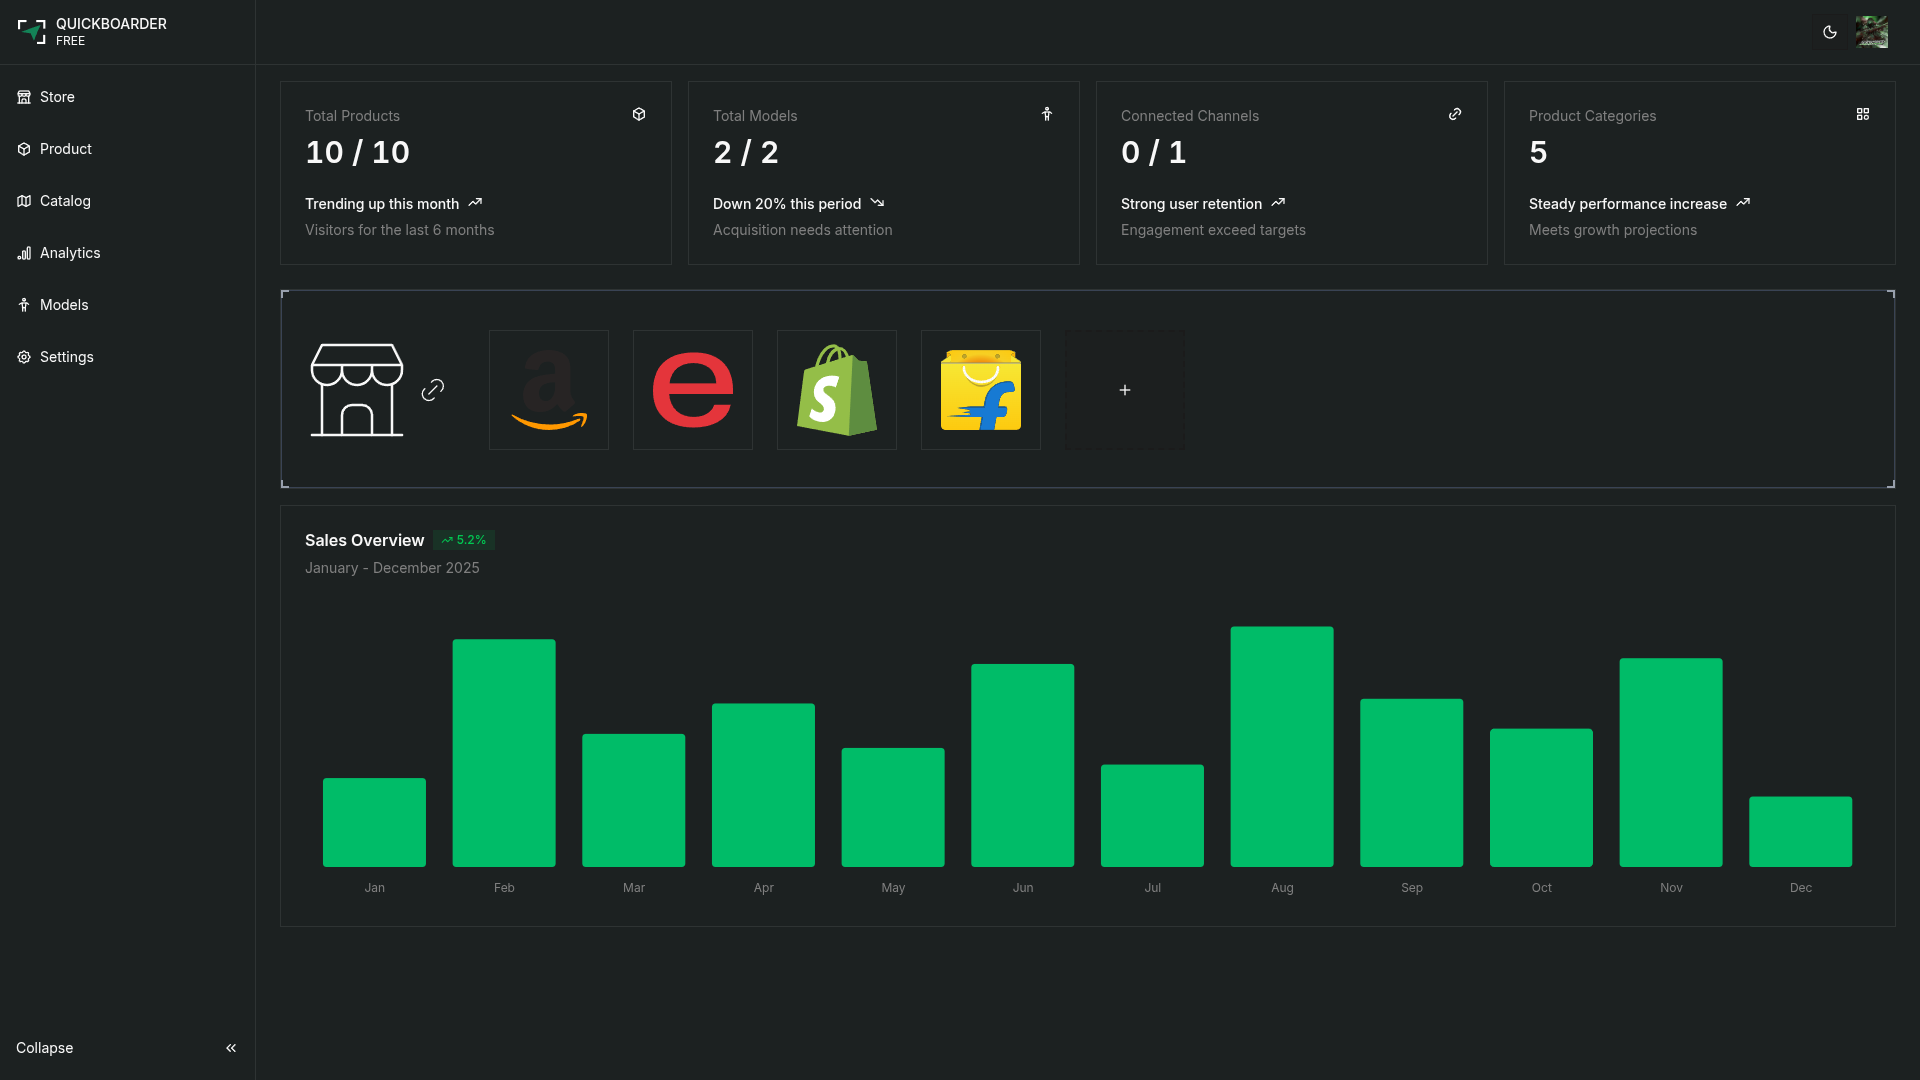
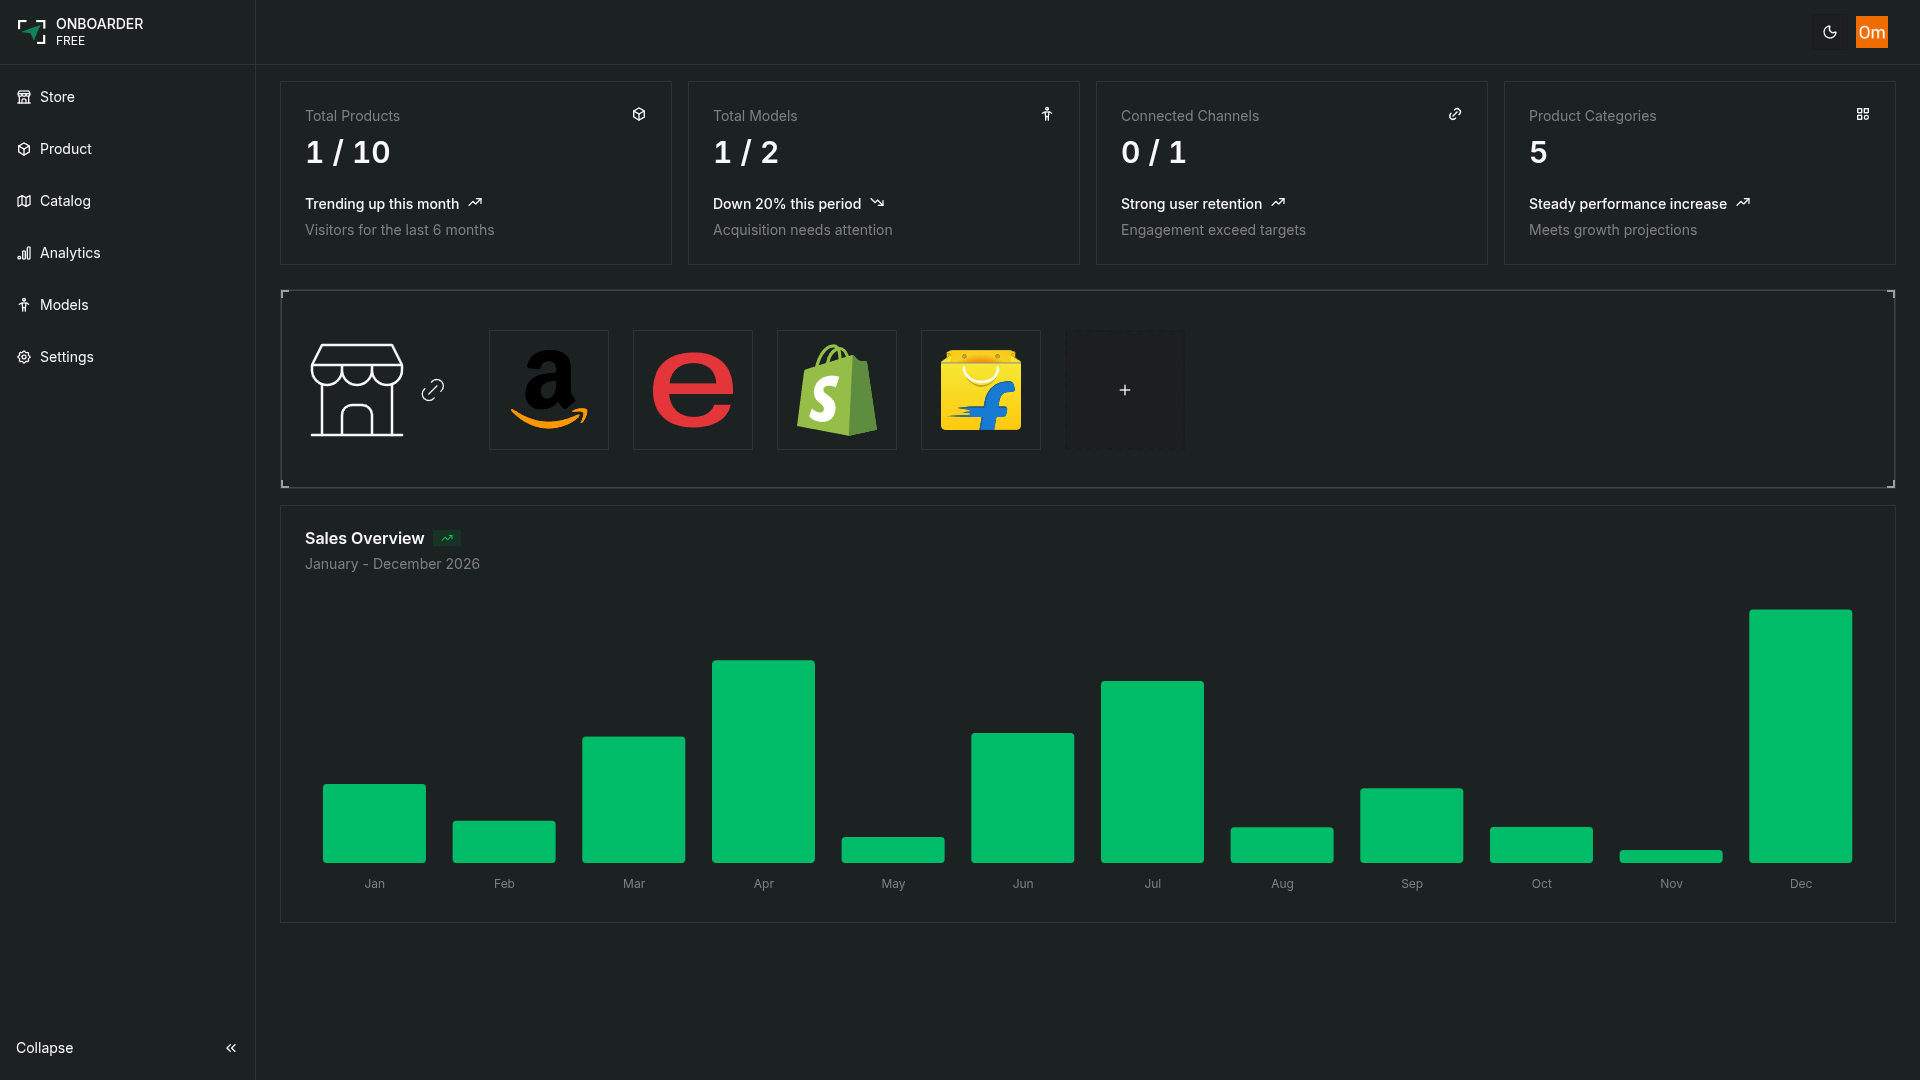
chore(brand): configure re-branding name

diff --git a/app/layout.tsx b/app/layout.tsx
@@ -23,11 +23,11 @@ const inter = Inter({
 
 export const metadata: Metadata = {
   title: {
-    default: "Quickboarder - Get your products e-commerce ready",
-    template: "%s | Quickboarder",
+    default: "Onboarder - Get your products e-commerce ready",
+    template: "%s | Onboarder",
   },
   description:
-    "Quickboarder is a tool that helps you get your products e-commerce ready in minutes. Generate product descriptions, titles, and more with the power of AI.",
+    "Onboarder is a tool that helps you get your products e-commerce ready in minutes. Generate product descriptions, titles, and more with the power of AI.",
   keywords: [
     "e-commerce",
     "shopify",
@@ -43,9 +43,9 @@ export const metadata: Metadata = {
     "ai tools",
     "models",
   ],
-  authors: [{ name: "quickboarder.shop" }],
-  creator: "quickboarder.shop",
-  publisher: "quickboarder.shop",
+  authors: [{ name: "Onboarder.shop" }],
+  creator: "Onboarder.shop",
+  publisher: "Onboarder.shop",
   robots: {
     index: true,
     follow: true,
@@ -62,24 +62,24 @@ export const metadata: Metadata = {
     shortcut: [{ url: "/favicon/favicon.ico" }],
   },
   openGraph: {
-    title: "Quickboarder - Get your products e-commerce ready",
+    title: "Onboarder - Get your products e-commerce ready",
     description:
-      "Quickboarder is a tool that helps you get your products e-commerce ready in minutes. Generate product descriptions, titles, and more with the power of AI.",
-    siteName: "Quickboarder",
+      "Onboarder is a tool that helps you get your products e-commerce ready in minutes. Generate product descriptions, titles, and more with the power of AI.",
+    siteName: "Onboarder",
     images: [
       {
         url: "/og-image.png",
         width: 1200,
         height: 630,
-        alt: "Quickboarder - Get your products e-commerce ready",
+        alt: "Onboarder - Get your products e-commerce ready",
       },
     ],
   },
   twitter: {
     card: "summary_large_image",
-    title: "Quickboarder - Get your products e-commerce ready",
+    title: "Onboarder - Get your products e-commerce ready",
     description:
-      "Quickboarder is a tool that helps you get your products e-commerce ready in minutes. Generate product descriptions, titles, and more with the power of AI.",
+      "Onboarder is a tool that helps you get your products e-commerce ready in minutes. Generate product descriptions, titles, and more with the power of AI.",
     images: ["/og-image.png"],
     creator: "@ommshx",
   },

diff --git a/components/blocks/faq.tsx b/components/blocks/faq.tsx
@@ -13,14 +13,14 @@ const categories = [
     title: "Support",
     questions: [
       {
-        question: "How do I connect my Amazon store to QuickBoarder?",
+        question: "How do I connect my Amazon store to Onboarder?",
         answer:
-          "Head to the ‘Integrations’ section in your QuickBoarder dashboard, choose your preferred platform, and follow the on-screen connection steps. You’ll be asked to authorize access to your store so we can publish and sync product listings automatically.",
+          "Head to the ‘Integrations’ section in your Onboarder dashboard, choose your preferred platform, and follow the on-screen connection steps. You’ll be asked to authorize access to your store so we can publish and sync product listings automatically.",
       },
       {
         question: "Can I edit the generated product details?",
         answer:
-          "Yes, absolutely. Every listing generated by QuickBoarder can be customized before export. You can fine-tune titles, descriptions, and images to better fit your brand tone and marketplace requirements.",
+          "Yes, absolutely. Every listing generated by Onboarder can be customized before export. You can fine-tune titles, descriptions, and images to better fit your brand tone and marketplace requirements.",
       },
     ],
   },
@@ -28,14 +28,14 @@ const categories = [
     title: "Your account",
     questions: [
       {
-        question: "How do I create or set up my QuickBoarder account?",
+        question: "How do I create or set up my Onboarder account?",
         answer:
           "You can sign up using your email address or Google account on our homepage. Once registered, you’ll gain access to your dashboard where you can start generating listings and connecting marketplaces instantly.",
       },
       {
-        question: "Is QuickBoarder free to use or does it have paid plans?",
+        question: "Is Onboarder free to use or does it have paid plans?",
         answer:
-          "QuickBoarder offers a free plan with limited AI credits to help you get started. For advanced features, higher credit limits, and priority export options, you can upgrade to a paid plan anytime from your account settings.",
+          "Onboarder offers a free plan with limited AI credits to help you get started. For advanced features, higher credit limits, and priority export options, you can upgrade to a paid plan anytime from your account settings.",
       },
       {
         question: "Can I delete my data or account permanently?",
@@ -48,19 +48,19 @@ const categories = [
     title: "Other questions",
     questions: [
       {
-        question: "What is QuickBoarder and how does it work?",
+        question: "What is Onboarder and how does it work?",
         answer:
-          "QuickBoarder is an AI-powered platform that helps you take your business online in minutes. Simply upload your product details or images, and our AI generates e-commerce–ready listings — complete with titles, descriptions, and visuals — that you can export to major marketplaces like Amazon, Flipkart, and Shopify.",
+          "Onboarder is an AI-powered platform that helps you take your business online in minutes. Simply upload your product details or images, and our AI generates e-commerce–ready listings — complete with titles, descriptions, and visuals — that you can export to major marketplaces like Amazon, Flipkart, and Shopify.",
       },
       {
-        question: "Can QuickBoarder create a complete product catalog?",
+        question: "Can Onboarder create a complete product catalog?",
         answer:
-          "Yes! With just basic product details or reference images, QuickBoarder can generate a full e-commerce catalog, including optimized titles, high-quality images, and keyword-rich descriptions — all ready for publishing.",
+          "Yes! With just basic product details or reference images, Onboarder can generate a full e-commerce catalog, including optimized titles, high-quality images, and keyword-rich descriptions — all ready for publishing.",
       },
       {
-        question: "Which platforms does QuickBoarder support for export?",
+        question: "Which platforms does Onboarder support for export?",
         answer:
-          "QuickBoarder currently supports exports to Amazon, Flipkart, Shopify, and WooCommerce. We’re continuously adding support for more marketplaces and will notify you when new integrations go live.",
+          "Onboarder currently supports exports to Amazon, Flipkart, Shopify, and WooCommerce. We’re continuously adding support for more marketplaces and will notify you when new integrations go live.",
       },
     ],
   },

diff --git a/components/blocks/footer.tsx b/components/blocks/footer.tsx
@@ -27,8 +27,8 @@ export function Footer() {
           Start your journey today
         </h2>
         <p className="text-muted-foreground mx-auto max-w-xl leading-snug text-balance">
-          Quickboarder is the perfect tool to take your business to the next
-          level within minutes
+          Onboarder is the perfect tool to take your business to the next level
+          within minutes
         </p>
         <div>
           <Button size="lg" className="mt-4" asChild>
@@ -107,7 +107,7 @@ export function Footer() {
             fontFamily="Poppins, sans-serif"
             letterSpacing="8"
           >
-            QUICKBOARDER
+            Onboarder
           </text>
         </svg>
       </div>

diff --git a/components/blocks/hero.tsx b/components/blocks/hero.tsx
@@ -38,7 +38,7 @@ export const Hero = () => {
       <div className="container flex flex-col justify-between gap-8 md:gap-14 lg:flex-row lg:gap-20">
         <div className="flex-1">
           <h1 className="text-foreground max-w-160 text-3xl tracking-tight md:text-4xl lg:text-5xl xl:whitespace-nowrap">
-            Quickboarder
+            Onboarder
           </h1>
           <p className="text-muted-foreground text-1xl mt-5 md:text-3xl">
             Get your products e-commerce ready in minutes with AI-powered
@@ -46,9 +46,7 @@ export const Hero = () => {
           </p>
           <div className="mt-8 flex flex-wrap items-center gap-4 lg:flex-nowrap">
             <Button asChild>
-              <a href="https://quickboarder.shop/dashboard">
-                Get Started
-              </a>
+              <a href="https://Onboarder.shop/dashboard">Get Started</a>
             </Button>
             <Button
               variant="outline"

diff --git a/app/(protected)/dashboard/catalog/page.tsx b/app/(protected)/dashboard/catalog/page.tsx
@@ -8,7 +8,6 @@ import {
   Edit,
   Plus,
   Search,
-  Trash,
   Loader2,
   ChevronLeft,
   ChevronRight,
@@ -22,7 +21,6 @@ import {
   CardTitle,
 } from "@/components/ui/card";
 import { Input } from "@/components/ui/input";
-import { Checkbox } from "@/components/ui/checkbox";
 import { toast } from "@/components/ui/use-toast";
 import { ProductDeleteButton } from "@/components/product/ProductDelete";
 
@@ -254,7 +252,7 @@ export default function CatalogPage() {
     const dataUri =
       "data:application/json;charset=utf-8," + encodeURIComponent(dataStr);
 
-    const exportFileDefaultName = `quickboarder-catalog-${
+    const exportFileDefaultName = `Onboarder-catalog-${
       new Date().toISOString().split("T")[0]
     }.json`;
     const linkElement = document.createElement("a");

diff --git a/app/auth/login/page.tsx b/app/auth/login/page.tsx
@@ -14,7 +14,7 @@ const SimpleFallback = () => (
           <div className="h-full w-full rounded-full bg-green-500/80"></div>
         </div>
       </div>
-      <h2 className="mb-2 text-2xl font-bold text-white">QuickBoarder</h2>
+      <h2 className="mb-2 text-2xl font-bold text-white">Onboarder</h2>
       <p className="text-accent-foreground">
         Get Your Buisness Online in Minutes
       </p>

diff --git a/app/auth/register/page.tsx b/app/auth/register/page.tsx
@@ -13,7 +13,7 @@ const SimpleFallback = () => (
           <div className="h-full w-full rounded-full bg-green-500/80"></div>
         </div>
       </div>
-      <h2 className="mb-2 text-2xl font-bold text-white">QuickBoarder</h2>
+      <h2 className="mb-2 text-2xl font-bold text-white">Onboarder</h2>
       <p className="text-accent-foreground">
         Get Your Buisness Online in Minutes
       </p>

diff --git a/components/auth/header.tsx b/components/auth/header.tsx
@@ -14,7 +14,7 @@ export const Header = ({ label }: HeaderProps) => {
   return (
     <div className="w-full flex flex-col gap-y-4 items-center">
       <h1 className={cn("text-4xl font-semibold", font.className)}>
-        QuickBoarder
+        Onboarder
       </h1>
       <p className=" text-muted-foreground text-sm">{label}</p>
     </div>

diff --git a/components/blocks/features.tsx b/components/blocks/features.tsx
@@ -40,7 +40,7 @@ export const Features = () => {
             Made for small businesses
           </h2>
           <p className="text-muted-foreground leading-snug">
-            QuickBoarder is designed to help small businesses streamline their
+            Onboarder is designed to help small businesses streamline their
             onboarding process and get a new online store up and running in no
             time.
           </p>

diff --git a/components/blocks/pricing.tsx b/components/blocks/pricing.tsx
@@ -75,7 +75,7 @@ export const Pricing = ({ className }: { className?: string }) => {
             Pricing
           </h2>
           <p className="text-muted-foreground mx-auto max-w-xl leading-snug text-balance">
-            Use Quickboarder for free with all the features. Upgrade to enable
+            Use Onboarder for free with all the features. Upgrade to enable
             higher limits and premium features.
           </p>
         </div>

diff --git a/components/dashboard/store-switcher.tsx b/components/dashboard/store-switcher.tsx
@@ -38,7 +38,7 @@ export function StoreSwitcher() {
             </div>
 
             <div className="grid flex-1 text-left text-sm leading-tight">
-              <span className="truncate font-medium">QUICKBOARDER</span>
+              <span className="truncate font-medium">ONBOARDER</span>
               <span className="truncate text-xs">FREE</span>
             </div>
           </SidebarMenuButton>

diff --git a/docs/flipkart-integration.md b/docs/flipkart-integration.md
@@ -2,7 +2,7 @@
 
 ## Overview
 
-The Flipkart Seller Integration feature enables QuickBoarder users to connect their Flipkart Seller Central accounts using OAuth 2.0 authentication. This Phase 1 MVP focuses exclusively on the connection flow - allowing users to authenticate, securely store credentials, and manage their connection status. The implementation mirrors the existing Amazon Seller Integration architecture and prepares the foundation for future product upload capabilities.
+The Flipkart Seller Integration feature enables Onboarder users to connect their Flipkart Seller Central accounts using OAuth 2.0 authentication. This Phase 1 MVP focuses exclusively on the connection flow - allowing users to authenticate, securely store credentials, and manage their connection status. The implementation mirrors the existing Amazon Seller Integration architecture and prepares the foundation for future product upload capabilities.
 
 ## Architecture
 
@@ -803,7 +803,7 @@ if (result.status?.connected) {
 Gets valid access token for user, automatically refreshing if needed.
 
 **Parameters:**
-- `userId` (string) - QuickBoarder user ID
+- `userId` (string) - Onboarder user ID
 
 **Returns:** `Promise<string>` - Decrypted access token
 
@@ -828,7 +828,7 @@ try {
 Stores encrypted tokens in database.
 
 **Parameters:**
-- `userId` (string) - QuickBoarder user ID
+- `userId` (string) - Onboarder user ID
 - `tokens` (object) - Token data
   - `accessToken` (string)
   - `refreshToken` (string)
@@ -845,7 +845,7 @@ Stores encrypted tokens in database.
 Revokes connection and deletes tokens.
 
 **Parameters:**
-- `userId` (string) - QuickBoarder user ID
+- `userId` (string) - Onboarder user ID
 
 **Returns:** `Promise<void>`
 
@@ -856,7 +856,7 @@ Revokes connection and deletes tokens.
 Gets connection status for user.
 
 **Parameters:**
-- `userId` (string) - QuickBoarder user ID
+- `userId` (string) - Onboarder user ID
 
 **Returns:**
 ```typescript
@@ -874,7 +874,7 @@ Promise<{
 Phase 2 will add product upload capabilities similar to the Amazon integration:
 
 1. **Product Mapper**
-   - Transform QuickBoarder products to Flipkart listing format
+   - Transform Onboarder products to Flipkart listing format
    - Category mapping with fallbacks
    - Image URL handling
    - SKU generation